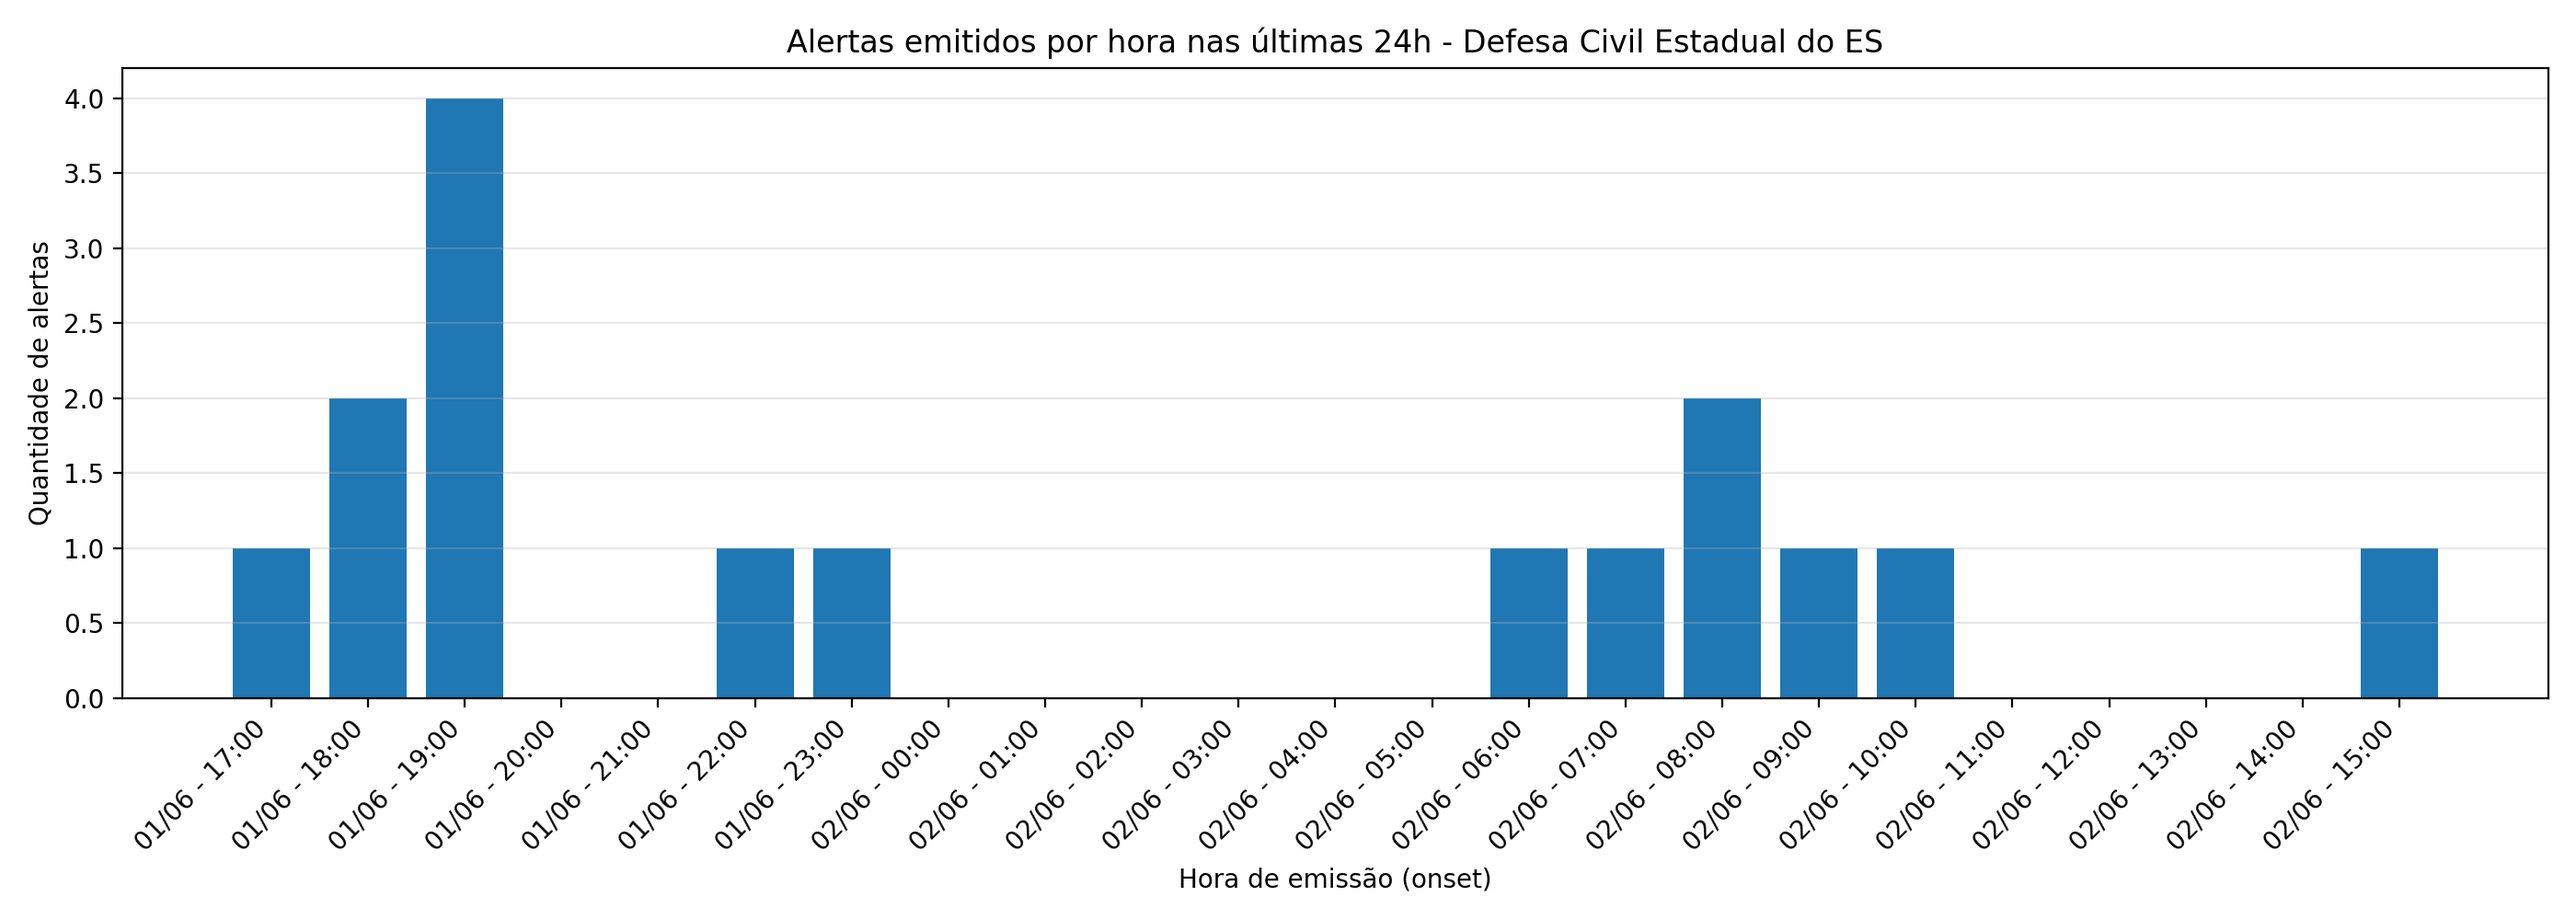
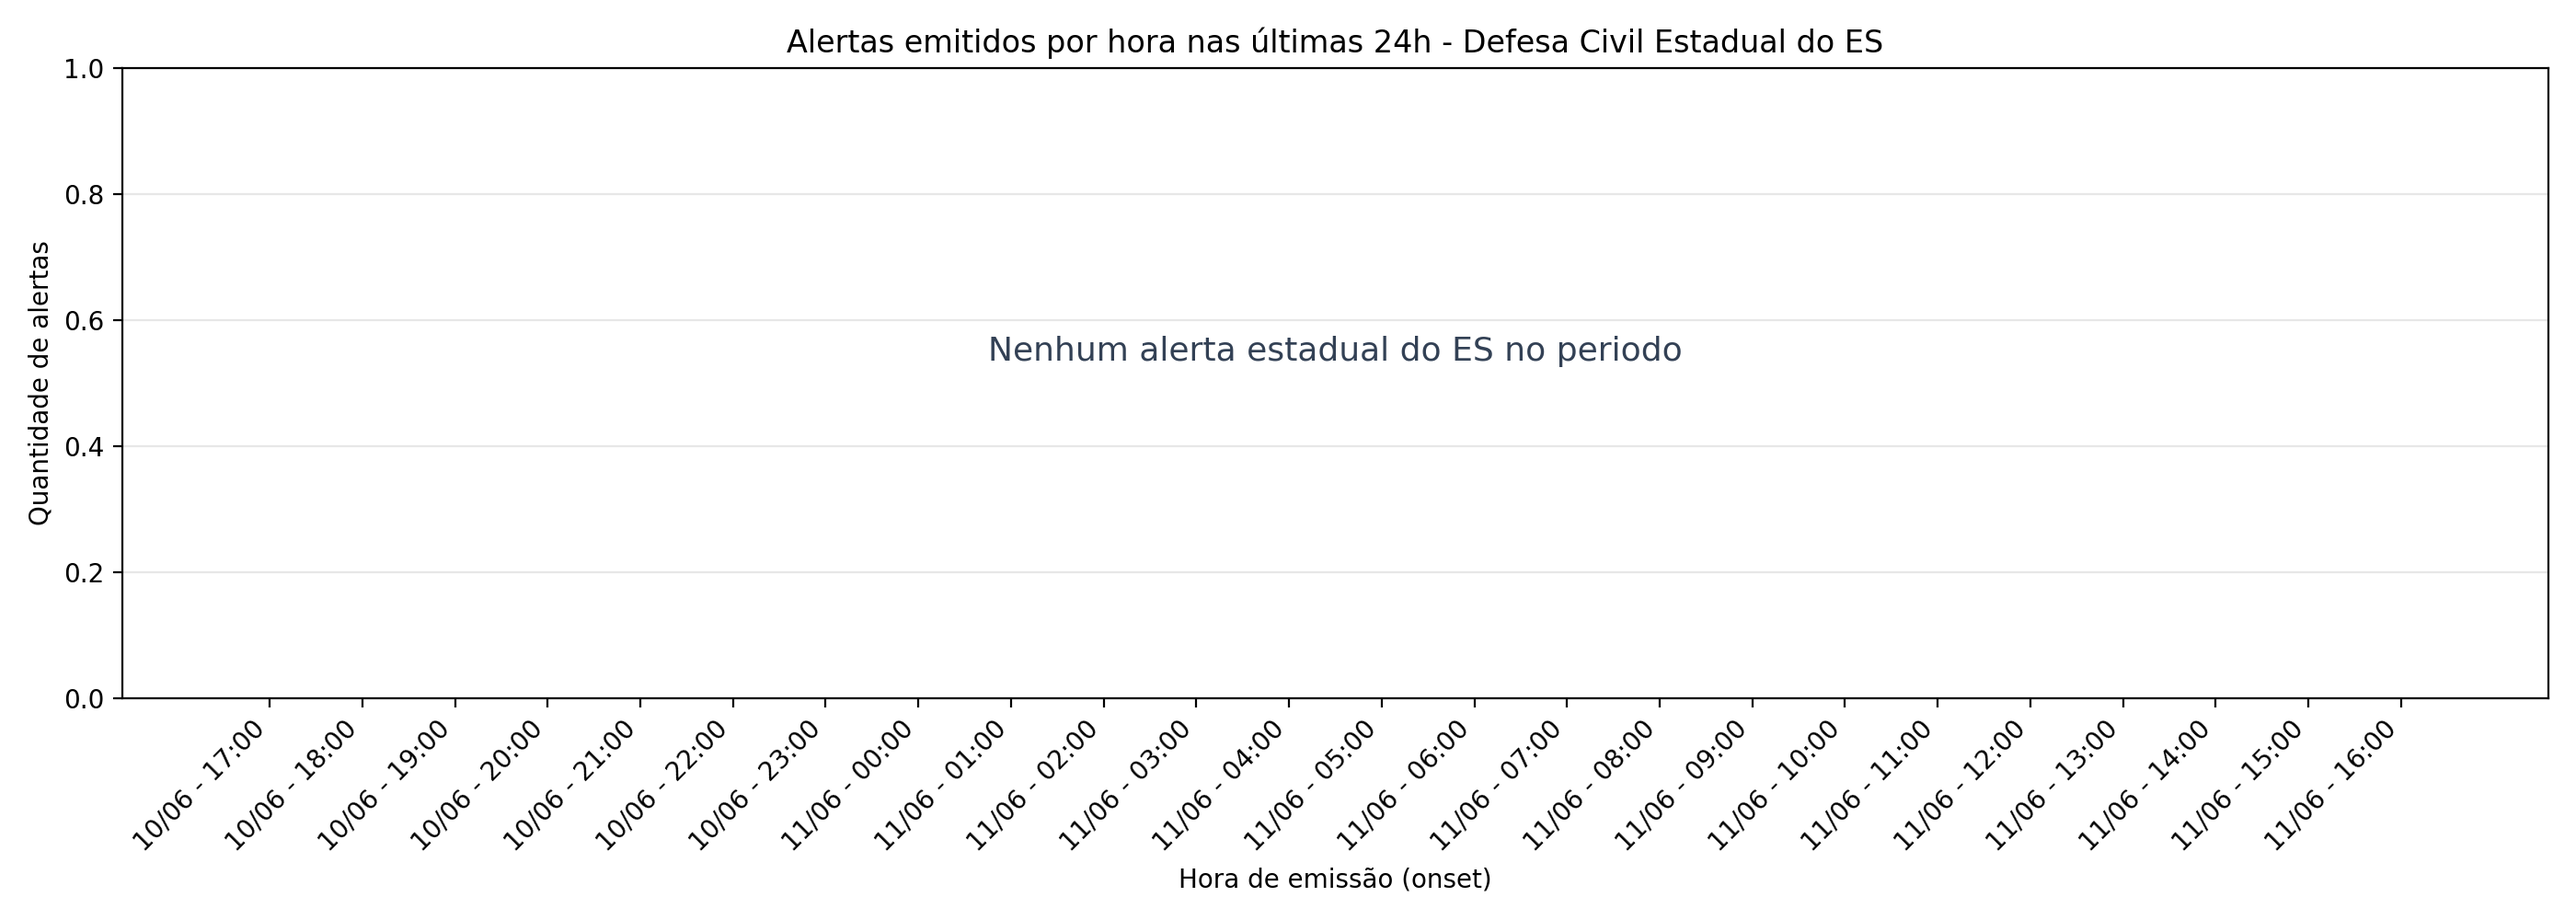
Update dashboard.html

diff --git a/site/assets/css/dashboard.css b/site/assets/css/dashboard.css
@@ -2430,29 +2430,91 @@ body {
 }
 
 .severity-breakdown {
-  gap: clamp(5px, 0.55vw, 8px);
-  padding: clamp(8px, 0.7vw, 12px) clamp(12px, 0.9vw, 16px);
+  gap: clamp(3px, 0.35vw, 5px);
+  padding: clamp(5px, 0.45vw, 8px) clamp(12px, 0.9vw, 16px) clamp(6px, 0.5vw, 9px);
   overflow-y: hidden;
+  justify-content: start;
 }
 
 .severity-row {
-  gap: 3px;
+  gap: 2px;
 }
 
 .severity-row-head {
-  min-height: 20px;
+  min-height: 17px;
 }
 
 .severity-row-name {
-  font-size: clamp(0.76rem, 0.72vw, 0.88rem);
+  font-size: clamp(0.72rem, 0.66vw, 0.82rem);
 }
 
 .severity-row-value {
-  font-size: clamp(0.86rem, 0.8vw, 0.98rem);
+  font-size: clamp(0.78rem, 0.72vw, 0.9rem);
 }
 
 .severity-track {
-  height: clamp(9px, 0.75vw, 12px);
+  height: clamp(7px, 0.58vw, 10px);
+}
+
+.severity-panel .panel-head {
+  padding-top: clamp(8px, 0.65vw, 11px);
+  padding-bottom: clamp(5px, 0.45vw, 8px);
+}
+
+/* Visual refinado para manter todos os 5 níveis visíveis */
+.severity-panel-compact {
+  grid-template-rows: auto minmax(0, 1fr);
+}
+
+.severity-panel .panel-head,
+.severity-panel .panel-head.compact {
+  padding-top: 9px;
+  padding-bottom: 7px;
+}
+
+.severity-panel .panel-head h2 {
+  font-size: clamp(1.02rem, 1vw, 1.22rem);
+  line-height: 1.1;
+}
+
+.severity-breakdown {
+  display: flex;
+  flex-direction: column;
+  justify-content: space-between;
+  gap: clamp(5px, 0.48vw, 8px);
+  min-height: 0;
+  max-height: none;
+  height: 100%;
+  padding: clamp(8px, 0.7vw, 12px) clamp(16px, 1vw, 22px) clamp(10px, 0.8vw, 14px);
+  overflow: hidden;
+}
+
+.severity-row {
+  width: 100%;
+  min-height: 0;
+  display: grid;
+  gap: clamp(3px, 0.28vw, 5px);
+}
+
+.severity-row-head {
+  min-height: 15px;
+  line-height: 1.05;
+}
+
+.severity-row-name {
+  font-size: clamp(0.72rem, 0.68vw, 0.84rem);
+  line-height: 1.05;
+}
+
+.severity-row-value {
+  font-size: clamp(0.78rem, 0.74vw, 0.92rem);
+  line-height: 1.05;
+}
+
+.severity-track {
+  width: 100%;
+  height: clamp(8px, 0.62vw, 11px);
+  box-shadow: inset 0 1px 1px rgba(40, 58, 98, 0.06);
 }
 
 @media (max-width: 760px) {

diff --git a/site/imagens.html b/site/imagens.html
@@ -64,7 +64,6 @@
 
     <nav class="lista">
       <a href="data/alertas_idap.geojson" target="_blank" rel="noopener noreferrer">GeoJSON de alertas estaduais do ES</a>
-      <a href="imagens/grafico_alertas_por_hora_24h.png" target="_blank" rel="noopener noreferrer">Gráfico de alertas por hora</a>
       <a href="dashboard_data.json" target="_blank" rel="noopener noreferrer">Dados agregados do dashboard</a>
       <a href="ultima_atualizacao.json" target="_blank" rel="noopener noreferrer">Metadados da última atualização</a>
     </nav>

diff --git a/site/dashboard.html b/site/dashboard.html
@@ -9,7 +9,7 @@
     href="https://unpkg.com/leaflet@1.9.4/dist/leaflet.css"
     crossorigin=""
   />
-  <link rel="stylesheet" href="assets/css/dashboard.css?v=20260610-4" />
+  <link rel="stylesheet" href="assets/css/dashboard.css?v=20260611-1" />
 </head>
 <body>
   <div class="app-shell">

diff --git a/scripts/idap_daily_maps.py b/scripts/idap_daily_maps.py
@@ -6,7 +6,6 @@ Coleta alertas CAP do IDAP para o Espírito Santo e gera saídas do site.
 
 Saídas:
 - alertas_idap.geojson
-- grafico_alertas_por_hora_24h.png
 - alerts_feed.json, alerts_24h.json, historico_alertas.json, errors.json, resumo.json, resumo.md
 
 Regras:
@@ -242,11 +241,13 @@ def _read_local_source(source: str) -> Optional[bytes]:
 def _read_url(url: str, timeout: int = 30, retries: int = 3, backoff_s: float = 1.2) -> bytes:
     local_data = _read_local_source(url)
     if local_data is not None:
+        print(f"[INFO] Lendo fonte local: {url}", flush=True)
         return local_data
 
     last_err: Optional[Exception] = None
     for i in range(retries):
         try:
+            print(f"[INFO] Baixando RSS ({i + 1}/{retries}) timeout={timeout}s: {url}", flush=True)
             req = urllib.request.Request(
                 url,
                 headers={"User-Agent": "IDAP-Daily-Maps/1.5 (+github-actions)", "Accept": "*/*"},
@@ -260,6 +261,7 @@ def _read_url(url: str, timeout: int = 30, retries: int = 3, backoff_s: float = 
             last_err = e
         except Exception as e:
             last_err = e
+        print(f"[WARN] Tentativa {i + 1}/{retries} falhou: {last_err}", flush=True)
         time.sleep(backoff_s * (i + 1))
     raise last_err if last_err else RuntimeError("Falha ao baixar URL (erro desconhecido)")
 
@@ -829,63 +831,6 @@ def _write_alerts_geojson(path: str, alerts: List[AlertRecord]) -> int:
     _save_json_file(path, payload)
     return len(features)
 
-
-def _plot_alerts_per_hour(alerts: List[AlertRecord], out_path: str, title: str) -> None:
-    import matplotlib
-    matplotlib.use("Agg")
-    import matplotlib.pyplot as plt
-
-    hourly_counts: Dict[datetime, int] = {}
-    for a in alerts:
-        dt = _parse_iso_any(a.onset)
-        if dt is None:
-            continue
-        bucket = dt.replace(minute=0, second=0, microsecond=0)
-        hourly_counts[bucket] = hourly_counts.get(bucket, 0) + 1
-
-    if hourly_counts:
-        buckets = sorted(hourly_counts.keys())
-        start = buckets[0]
-        end = buckets[-1]
-    else:
-        end = _now_sp().replace(minute=0, second=0, microsecond=0)
-        start = end - timedelta(hours=23)
-
-    full_buckets: List[datetime] = []
-    cur = start
-    while cur <= end:
-        full_buckets.append(cur)
-        cur = cur + timedelta(hours=1)
-
-    values = [hourly_counts.get(b, 0) for b in full_buckets]
-    labels = [b.strftime('%d/%m - %H:%M') for b in full_buckets]
-
-    fig = plt.figure(figsize=(14, 5), dpi=200)
-    ax = plt.gca()
-    ax.bar(range(len(full_buckets)), values)
-    ax.set_title(title, fontsize=12)
-    ax.set_ylabel('Quantidade de alertas')
-    ax.set_xlabel('Hora de emissão (onset)')
-    ax.set_xticks(range(len(full_buckets)))
-    ax.set_xticklabels(labels, rotation=45, ha='right')
-    ax.grid(True, axis='y', alpha=0.3)
-    if not hourly_counts:
-        ax.text(
-            0.5,
-            0.55,
-            "Nenhum alerta estadual do ES no periodo",
-            transform=ax.transAxes,
-            ha="center",
-            va="center",
-            fontsize=13,
-            color="#334155",
-        )
-        ax.set_ylim(0, 1)
-    plt.tight_layout()
-    fig.savefig(out_path, dpi=200)
-    plt.close(fig)
-
-
 def main() -> int:
     rss_url = os.getenv("RSS_URL", DEFAULT_RSS_URL)
     uf_geojson_path = os.getenv("UF_GEOJSON_PATH", DEFAULT_UF_GEOJSON_PATH)
@@ -896,6 +841,8 @@ def main() -> int:
     alerts_geojson_path = os.getenv("ALERTS_GEOJSON_PATH", DEFAULT_ALERTS_GEOJSON_PATH)
     window_hours = int(os.getenv("WINDOW_HOURS", str(DEFAULT_WINDOW_HOURS)))
     retention_hours = int(os.getenv("RETENTION_HOURS", str(DEFAULT_RETENTION_HOURS)))
+    rss_timeout = int(os.getenv("RSS_TIMEOUT_SECONDS", "45"))
+    rss_retries = int(os.getenv("RSS_RETRIES", "4"))
     target_sender_name = os.getenv("TARGET_SENDER_NAME", DEFAULT_TARGET_SENDER_NAME).strip()
 
     print(f"[INFO] RSS_URL={rss_url}")
@@ -906,6 +853,8 @@ def main() -> int:
     print(f"[INFO] ALERTS_GEOJSON_PATH={alerts_geojson_path}")
     print(f"[INFO] WINDOW_HOURS={window_hours}")
     print(f"[INFO] RETENTION_HOURS={retention_hours}")
+    print(f"[INFO] RSS_TIMEOUT_SECONDS={rss_timeout}")
+    print(f"[INFO] RSS_RETRIES={rss_retries}")
     print(f"[INFO] TARGET_SENDER_NAME={target_sender_name}")
 
     run_ts = _now_sp().strftime("%Y%m%d_%H%M%S")
@@ -918,7 +867,7 @@ def main() -> int:
     state = _load_state(state_path)
 
     try:
-        rss_bytes = _read_url(rss_url, timeout=45, retries=4)
+        rss_bytes = _read_url(rss_url, timeout=rss_timeout, retries=rss_retries)
     except Exception as e:
         print(f"[ERROR] Falha ao baixar RSS: {e}")
         return 2
@@ -947,20 +896,24 @@ def main() -> int:
 
     print(f"[INFO] CAPs parseados do feed: {len(feed_alerts)} | ignorados por senderName: {ignored_by_sender} | erros: {len(errors)}")
 
-    try:
-        municipios_gdf = _load_municipios_gdf(mun_geojson_path)
-        feed_alerts = _enrich_alerts_with_municipios(feed_alerts, municipios_gdf)
-    except Exception as e:
-        print(f"[ERROR] Falha ao ler/enriquecer municipios do ES: {e}")
-        return 4
-
     history_before = [
         a for a in _load_history(history_path)
         if _same_sender_name(a.senderName, target_sender_name)
     ]
     history_merged, added_count = _merge_history(history_before, feed_alerts)
-    history_merged = _enrich_alerts_with_municipios(history_merged, municipios_gdf)
     history_kept = _filter_recent_history(history_merged, retention_hours=retention_hours, ref_now=_now_sp())
+
+    if history_kept:
+        try:
+            print(f"[INFO] Enriquecendo {len(history_kept)} alerta(s) com malha municipal do ES", flush=True)
+            municipios_gdf = _load_municipios_gdf(mun_geojson_path)
+            history_kept = _enrich_alerts_with_municipios(history_kept, municipios_gdf)
+        except Exception as e:
+            print(f"[ERROR] Falha ao ler/enriquecer municipios do ES: {e}")
+            return 4
+    else:
+        print("[INFO] Sem alertas recentes para enriquecer; pulando carga da malha municipal", flush=True)
+
     alerts = _filter_window(history_kept, window_hours=window_hours, ref_now=_now_sp())
 
     print(f"[INFO] Histórico anterior: {len(history_before)}")
@@ -989,20 +942,6 @@ def main() -> int:
     _write_alerts_geojson(alerts_geojson_path, alerts)
     print(f"[INFO] GeoJSON gerado: {run_geojson_path} | feicoes: {feature_count}")
     print(f"[INFO] GeoJSON atualizado no site: {alerts_geojson_path}")
-
-    graf_hora = os.path.join(run_dir, "grafico_alertas_por_hora_24h.png")
-    
-    try:
-        _plot_alerts_per_hour(alerts, graf_hora, f"Alertas emitidos por hora nas {_format_window_label(window_hours)} - Defesa Civil Estadual do ES")
-        if os.path.exists(graf_hora):
-            print(f"[INFO] Gráfico gerado: {graf_hora}")
-        else:
-            graf_hora = ""
-            print("[WARN] Gráfico por hora não gerado: nenhum alerta válido no período")
-    except Exception as e:
-        graf_hora = ""
-        print(f"[WARN] Falha ao gerar gráfico por hora: {e}")
-
 
     state["last_run_ts"] = run_ts
     state["last_run_iso"] = datetime.now(timezone.utc).isoformat()

diff --git a/README.md b/README.md
@@ -5,10 +5,9 @@ Projeto para monitorar alertas CAP publicados no IDAP pela Defesa Civil Estadual
 ## Fluxo
 
 1. `scripts/idap_daily_maps.py` baixa o RSS/CAP, filtra por `senderName`, atualiza o histórico em `.cache/historico_alertas.json`, gera o GeoJSON `site/data/alertas_idap.geojson` e o gráfico em `out/run_*`.
-2. O workflow copia apenas o gráfico mais recente para `site/imagens`.
-3. `scripts/build_dashboard.py` transforma o histórico em `site/dashboard_data.json`.
-4. `site/index.html` renderiza o mapa interativo com Leaflet consumindo `site/data/alertas_idap.geojson`.
-5. `site/dashboard.html` segue como dashboard operacional principal.
+2. `scripts/build_dashboard.py` transforma o histórico em `site/dashboard_data.json`.
+3. `site/index.html` renderiza o mapa interativo com Leaflet consumindo `site/data/alertas_idap.geojson`.
+4. `site/dashboard.html` segue como dashboard operacional principal.
 
 ## Arquivos principais
 
@@ -41,4 +40,3 @@ O teste gera:
 
 - `out/test_fake/run_*/alertas_idap.geojson`
 - `site/data/alertas_idap.geojson`
-- `out/test_fake/run_*/grafico_alertas_por_hora_24h.png`
